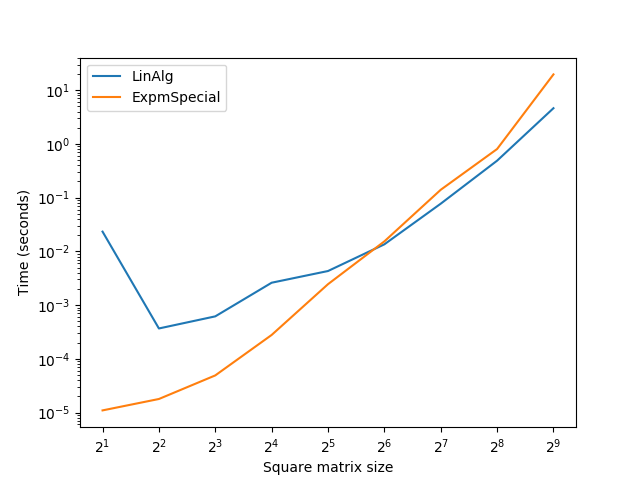
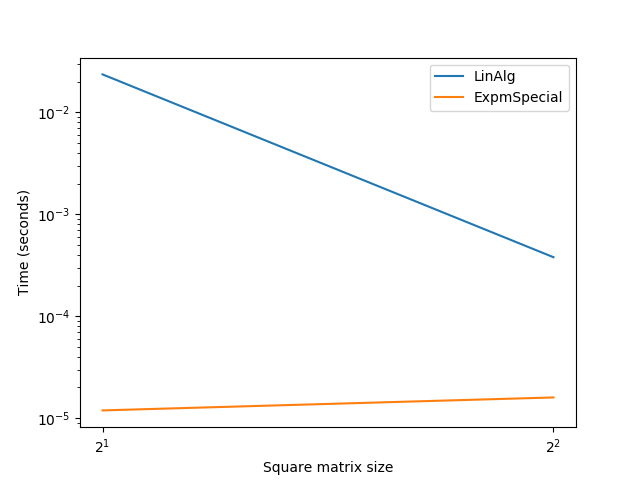
Fixed range issue in compare_linalg

diff --git a/test_matrices/compare_linalg.py b/test_matrices/compare_linalg.py
@@ -8,7 +8,7 @@ import matplotlib.pyplot as plt
 
 # matrix_size: how many qubits. matrix will be square of 2^size X 2^size
 #matrix_sizes = [1,2,3]
-matrix_sizes = range(1,13)
+matrix_sizes = range(1,3)
 track_times=np.zeros([len(matrix_sizes), 4])
 
 
@@ -19,6 +19,7 @@ for i in range(0,len(matrix_sizes)):
 	a = time.time()
 	linalg.expm(mat)
 	b = time.time()
+
 
 	c=time.time()
 	mu.expm_special(mat)
